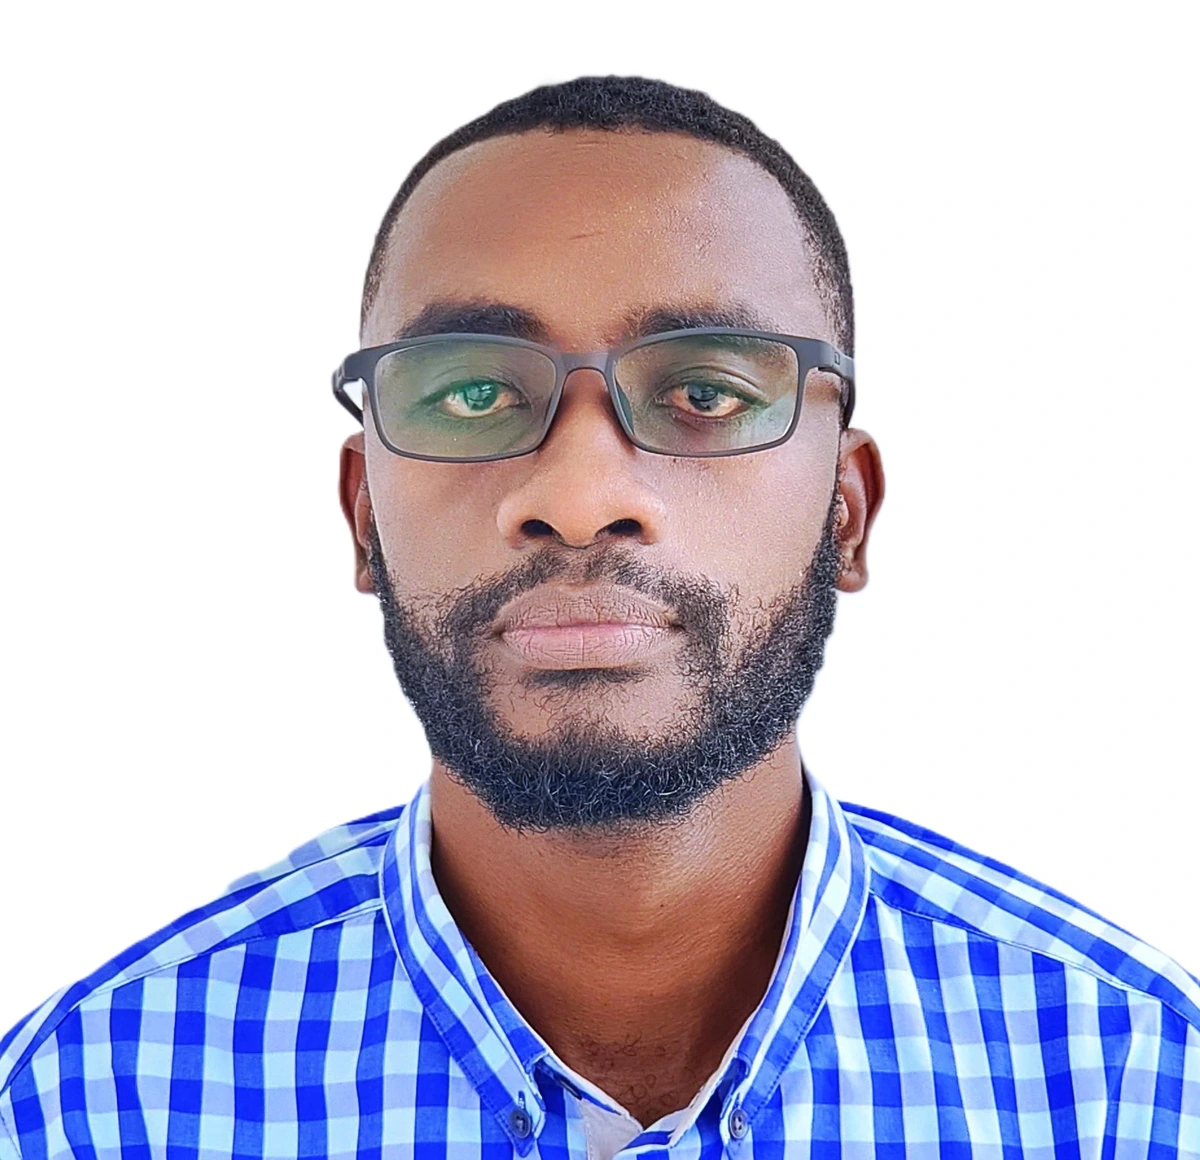
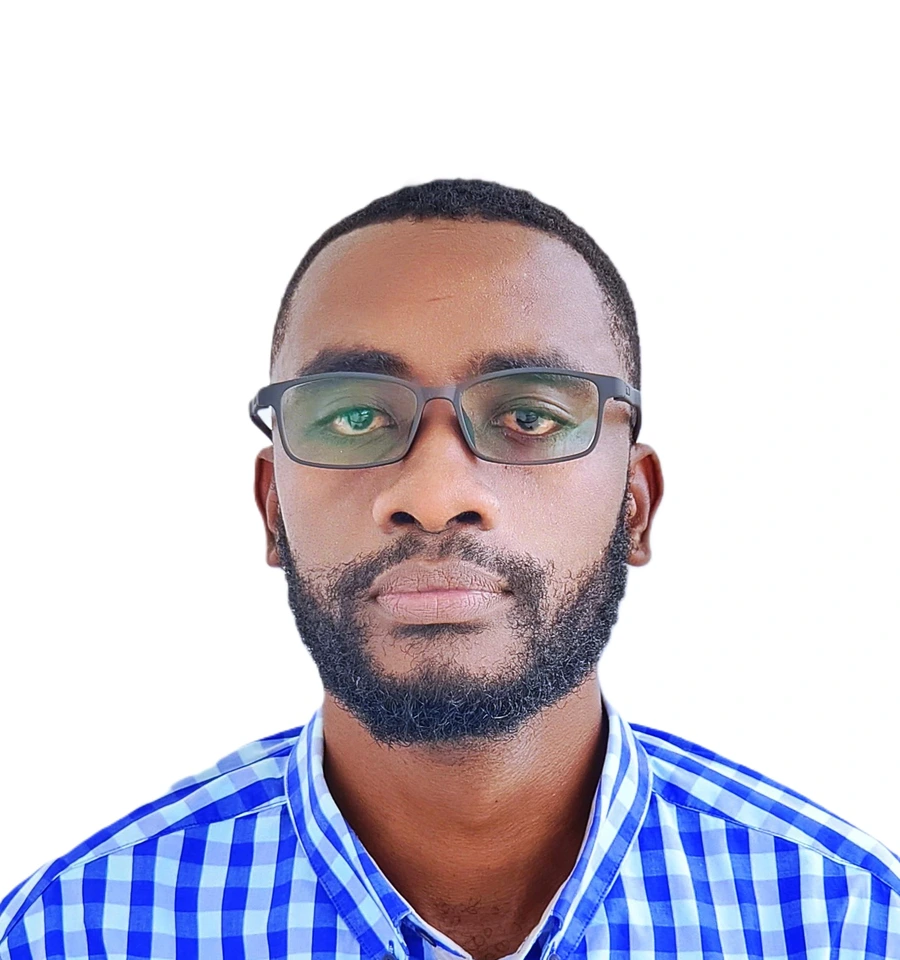
Update portrait headroom, remove BS count entry, add IITMZ links and CC BY-NC 4.0 license

diff --git a/index.html b/index.html
@@ -38,6 +38,8 @@
   "image": "https://inyalala.github.io/images/Photo.webp",
   "email": "mailto:innocent@iitmz.ac.in",
   "sameAs": [
+    "https://www.iitmz.ac.in/schools/engineering-and-science/faculty/prof-innocent-nyalala",
+    "https://www.iitmz.ac.in/labs",
     "https://www.linkedin.com/in/innocentnyalala/",
     "https://scholar.google.com/citations?user=jYVzIZUAAAAJ&hl=en",
     "https://github.com/inyalala",
@@ -176,9 +178,9 @@
           <span class="block text-5xl lg:text-6xl font-bold gold-text mt-0.5" style="line-height:1.15;padding-bottom:0.22em">Innocent Nyalala</span>
         </h1>
         <p class="text-gray-100 text-lg mt-4 mb-1 font-medium">AI Researcher &amp; Assistant Professor of Data Science and AI</p>
-        <p class="text-gray-300 text-sm mb-0.5">School of Engineering and Science, IIT Madras Zanzibar</p>
+        <p class="text-gray-300 text-sm mb-0.5"><a href="https://www.iitmz.ac.in/schools/engineering-and-science/faculty/prof-innocent-nyalala" target="_blank" rel="noopener" class="underline hover:text-gold">School of Engineering and Science, IIT Madras Zanzibar</a></p>
         <p class="text-gray-400 text-xs mb-0.5">Associate Research Fellow, Wadhwani School of Data Science &amp; AI, IIT Madras Chennai</p>
-        <p class="text-gold/80 text-sm font-medium mb-8">Founder &amp; Principal Investigator, SAAIL Lab · IIT Madras Zanzibar</p>
+        <p class="text-gold/80 text-sm font-medium mb-8">Founder &amp; Principal Investigator, <a href="https://saaillab.github.io/" target="_blank" rel="noopener" class="underline hover:text-white">SAAIL Lab</a> · <a href="https://www.iitmz.ac.in/labs" target="_blank" rel="noopener" class="underline hover:text-white">IITMZ Research Labs</a></p>
         <!-- Stats. Values are rendered from data/metrics.json by the block at the
              end of this file. The hard-coded numbers below are the fallback shown
              if that file cannot be loaded, so they should be kept roughly current. -->

diff --git a/team/index.html b/team/index.html
@@ -85,7 +85,7 @@
   <div class="absolute inset-0 bg-gradient-to-b from-navy/80 to-navy"></div>
   <div class="max-w-4xl mx-auto px-4 sm:px-6 lg:px-8 py-16 text-center relative z-10">
     <h1 class="text-3xl md:text-4xl font-display font-bold text-white mb-4">SAAIL Lab Team</h1>
-    <p class="text-gray-300 text-base">5 co-supervised PhD candidates, 3 current MTech scholars, 4 BS in Data Science &amp; AI researchers (Swahili NLP &amp; Coastal Blue Economy), and 4 graduated MTech alumni at IIT Madras Zanzibar.</p>
+    <p class="text-gray-300 text-base">5 co-supervised PhD candidates, 3 current MTech scholars, 3 BS in Data Science &amp; AI researchers (Swahili NLP &amp; Coastal Blue Economy), and 4 graduated MTech alumni at IIT Madras Zanzibar.</p>
   </div>
 </section>
 
